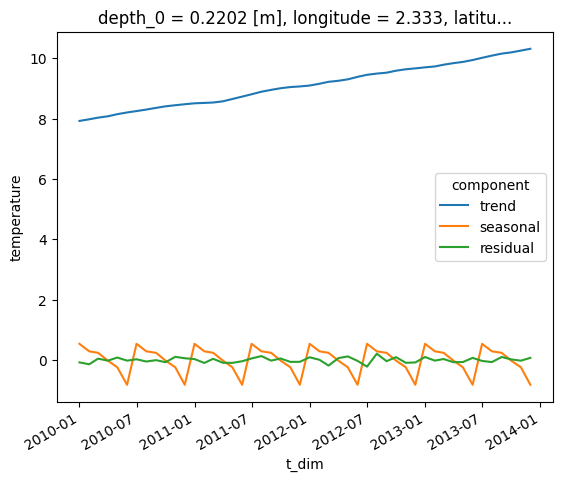
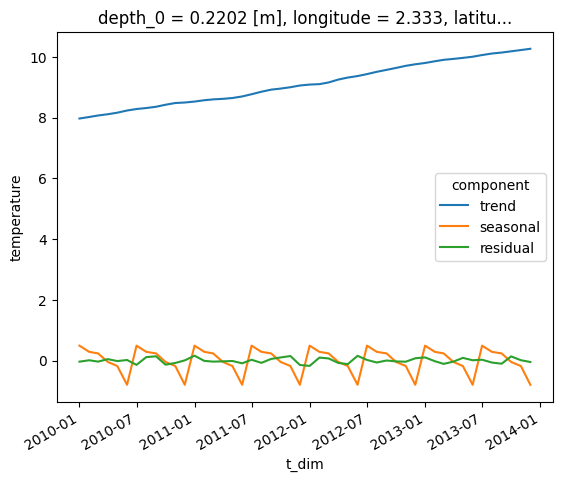
Updated General notebook pages from coast repo.

diff --git a/content/en/docs/Examples/Notebooks/General/seasonal_decomp_example.md b/content/en/docs/Examples/Notebooks/General/seasonal_decomp_example.md
@@ -86,7 +86,7 @@ temperature[0,0,:,:].plot()
 
 
 
-    <matplotlib.collections.QuadMesh at 0x7f45d0579970>
+    <matplotlib.collections.QuadMesh at 0x7f0c31d52940>
 
 
 
@@ -107,7 +107,7 @@ temperature[:,0,200,200].plot()
 
 
 
-    [<matplotlib.lines.Line2D at 0x7f45d03c0190>]
+    [<matplotlib.lines.Line2D at 0x7f0c30b92d30>]
 
 
 
@@ -514,7 +514,7 @@ Dimensions without coordinates: z_dim, y_dim, x_dim
 Data variables:
     trend      (t_dim, z_dim, y_dim, x_dim) float64 nan nan nan ... nan nan nan
     seasonal   (t_dim, z_dim, y_dim, x_dim) float64 nan nan nan ... nan nan nan
-    residual   (t_dim, z_dim, y_dim, x_dim) float64 nan nan nan ... nan nan nan</pre><div class='xr-wrap' style='display:none'><div class='xr-header'><div class='xr-obj-type'>xarray.Dataset</div></div><ul class='xr-sections'><li class='xr-section-item'><input id='section-f4075c30-2d5e-49f0-bcf2-2d2210e1a57b' class='xr-section-summary-in' type='checkbox' disabled ><label for='section-f4075c30-2d5e-49f0-bcf2-2d2210e1a57b' class='xr-section-summary'  title='Expand/collapse section'>Dimensions:</label><div class='xr-section-inline-details'><ul class='xr-dim-list'><li><span class='xr-has-index'>t_dim</span>: 48</li><li><span>z_dim</span>: 2</li><li><span>y_dim</span>: 375</li><li><span>x_dim</span>: 297</li></ul></div><div class='xr-section-details'></div></li><li class='xr-section-item'><input id='section-ee1c3df1-2cbd-40cf-a27c-421ae7bd3373' class='xr-section-summary-in' type='checkbox'  checked><label for='section-ee1c3df1-2cbd-40cf-a27c-421ae7bd3373' class='xr-section-summary' >Coordinates: <span>(4)</span></label><div class='xr-section-inline-details'></div><div class='xr-section-details'><ul class='xr-var-list'><li class='xr-var-item'><div class='xr-var-name'><span class='xr-has-index'>t_dim</span></div><div class='xr-var-dims'>(t_dim)</div><div class='xr-var-dtype'>datetime64[ns]</div><div class='xr-var-preview xr-preview'>2010-01-01 ... 2013-12-01</div><input id='attrs-1c0b5ee9-49e3-4047-8262-bf2af56a7f50' class='xr-var-attrs-in' type='checkbox' disabled><label for='attrs-1c0b5ee9-49e3-4047-8262-bf2af56a7f50' title='Show/Hide attributes'><svg class='icon xr-icon-file-text2'><use xlink:href='#icon-file-text2'></use></svg></label><input id='data-93116243-b0d6-4ac6-9b99-9b8d719a97ed' class='xr-var-data-in' type='checkbox'><label for='data-93116243-b0d6-4ac6-9b99-9b8d719a97ed' title='Show/Hide data repr'><svg class='icon xr-icon-database'><use xlink:href='#icon-database'></use></svg></label><div class='xr-var-attrs'><dl class='xr-attrs'></dl></div><div class='xr-var-data'><pre>array([&#x27;2010-01-01T00:00:00.000000000&#x27;, &#x27;2010-02-01T00:00:00.000000000&#x27;,
+    residual   (t_dim, z_dim, y_dim, x_dim) float64 nan nan nan ... nan nan nan</pre><div class='xr-wrap' style='display:none'><div class='xr-header'><div class='xr-obj-type'>xarray.Dataset</div></div><ul class='xr-sections'><li class='xr-section-item'><input id='section-f5c62940-463a-462a-8525-cb26a20d06eb' class='xr-section-summary-in' type='checkbox' disabled ><label for='section-f5c62940-463a-462a-8525-cb26a20d06eb' class='xr-section-summary'  title='Expand/collapse section'>Dimensions:</label><div class='xr-section-inline-details'><ul class='xr-dim-list'><li><span class='xr-has-index'>t_dim</span>: 48</li><li><span>z_dim</span>: 2</li><li><span>y_dim</span>: 375</li><li><span>x_dim</span>: 297</li></ul></div><div class='xr-section-details'></div></li><li class='xr-section-item'><input id='section-a5709a2a-1eed-4e3f-9bc7-9df5d907ebf7' class='xr-section-summary-in' type='checkbox'  checked><label for='section-a5709a2a-1eed-4e3f-9bc7-9df5d907ebf7' class='xr-section-summary' >Coordinates: <span>(4)</span></label><div class='xr-section-inline-details'></div><div class='xr-section-details'><ul class='xr-var-list'><li class='xr-var-item'><div class='xr-var-name'><span class='xr-has-index'>t_dim</span></div><div class='xr-var-dims'>(t_dim)</div><div class='xr-var-dtype'>datetime64[ns]</div><div class='xr-var-preview xr-preview'>2010-01-01 ... 2013-12-01</div><input id='attrs-d28d905f-6bf1-409e-b5db-44daf1c7b5a0' class='xr-var-attrs-in' type='checkbox' disabled><label for='attrs-d28d905f-6bf1-409e-b5db-44daf1c7b5a0' title='Show/Hide attributes'><svg class='icon xr-icon-file-text2'><use xlink:href='#icon-file-text2'></use></svg></label><input id='data-3940478f-03c5-487c-9b78-7de61cfd1bf8' class='xr-var-data-in' type='checkbox'><label for='data-3940478f-03c5-487c-9b78-7de61cfd1bf8' title='Show/Hide data repr'><svg class='icon xr-icon-database'><use xlink:href='#icon-database'></use></svg></label><div class='xr-var-attrs'><dl class='xr-attrs'></dl></div><div class='xr-var-data'><pre>array([&#x27;2010-01-01T00:00:00.000000000&#x27;, &#x27;2010-02-01T00:00:00.000000000&#x27;,
        &#x27;2010-03-01T00:00:00.000000000&#x27;, &#x27;2010-04-01T00:00:00.000000000&#x27;,
        &#x27;2010-05-01T00:00:00.000000000&#x27;, &#x27;2010-06-01T00:00:00.000000000&#x27;,
        &#x27;2010-07-01T00:00:00.000000000&#x27;, &#x27;2010-08-01T00:00:00.000000000&#x27;,
@@ -538,7 +538,7 @@ Data variables:
        &#x27;2013-07-01T00:00:00.000000000&#x27;, &#x27;2013-08-01T00:00:00.000000000&#x27;,
        &#x27;2013-09-01T00:00:00.000000000&#x27;, &#x27;2013-10-01T00:00:00.000000000&#x27;,
        &#x27;2013-11-01T00:00:00.000000000&#x27;, &#x27;2013-12-01T00:00:00.000000000&#x27;],
-      dtype=&#x27;datetime64[ns]&#x27;)</pre></div></li><li class='xr-var-item'><div class='xr-var-name'><span>depth_0</span></div><div class='xr-var-dims'>(z_dim, y_dim, x_dim)</div><div class='xr-var-dtype'>float32</div><div class='xr-var-preview xr-preview'>0.5 0.5 0.5 0.5 ... 1.5 1.5 1.5 1.5</div><input id='attrs-78babb90-9dbf-4d32-847d-3711c192db73' class='xr-var-attrs-in' type='checkbox' ><label for='attrs-78babb90-9dbf-4d32-847d-3711c192db73' title='Show/Hide attributes'><svg class='icon xr-icon-file-text2'><use xlink:href='#icon-file-text2'></use></svg></label><input id='data-1e911b8a-150a-4f6b-b3f9-1db9b211cf70' class='xr-var-data-in' type='checkbox'><label for='data-1e911b8a-150a-4f6b-b3f9-1db9b211cf70' title='Show/Hide data repr'><svg class='icon xr-icon-database'><use xlink:href='#icon-database'></use></svg></label><div class='xr-var-attrs'><dl class='xr-attrs'><dt><span>units :</span></dt><dd>m</dd><dt><span>standard_name :</span></dt><dd>Depth at time zero on the t-grid</dd></dl></div><div class='xr-var-data'><pre>array([[[0.5       , 0.5       , 0.5       , ..., 0.5       ,
+      dtype=&#x27;datetime64[ns]&#x27;)</pre></div></li><li class='xr-var-item'><div class='xr-var-name'><span>depth_0</span></div><div class='xr-var-dims'>(z_dim, y_dim, x_dim)</div><div class='xr-var-dtype'>float32</div><div class='xr-var-preview xr-preview'>0.5 0.5 0.5 0.5 ... 1.5 1.5 1.5 1.5</div><input id='attrs-53962787-6b13-4f56-ab88-d70066e1c684' class='xr-var-attrs-in' type='checkbox' ><label for='attrs-53962787-6b13-4f56-ab88-d70066e1c684' title='Show/Hide attributes'><svg class='icon xr-icon-file-text2'><use xlink:href='#icon-file-text2'></use></svg></label><input id='data-51dc4e98-56b1-4fcd-9c30-54e132b06648' class='xr-var-data-in' type='checkbox'><label for='data-51dc4e98-56b1-4fcd-9c30-54e132b06648' title='Show/Hide data repr'><svg class='icon xr-icon-database'><use xlink:href='#icon-database'></use></svg></label><div class='xr-var-attrs'><dl class='xr-attrs'><dt><span>units :</span></dt><dd>m</dd><dt><span>standard_name :</span></dt><dd>Depth at time zero on the t-grid</dd></dl></div><div class='xr-var-data'><pre>array([[[0.5       , 0.5       , 0.5       , ..., 0.5       ,
          0.5       , 0.5       ],
         [0.5       , 0.4975586 , 0.4975586 , ..., 0.10009766,
          0.10009766, 0.5       ],
@@ -564,7 +564,7 @@ Data variables:
         [1.5       , 0.30029297, 0.30029297, ..., 0.30029297,
          0.30029297, 1.5       ],
         [1.5       , 1.5       , 1.5       , ..., 1.5       ,
-         1.5       , 1.5       ]]], dtype=float32)</pre></div></li><li class='xr-var-item'><div class='xr-var-name'><span>longitude</span></div><div class='xr-var-dims'>(y_dim, x_dim)</div><div class='xr-var-dtype'>float32</div><div class='xr-var-preview xr-preview'>-19.89 -19.78 -19.67 ... 12.89 13.0</div><input id='attrs-5f2d53e7-8485-49bc-b5c7-5165f50b6e16' class='xr-var-attrs-in' type='checkbox' disabled><label for='attrs-5f2d53e7-8485-49bc-b5c7-5165f50b6e16' title='Show/Hide attributes'><svg class='icon xr-icon-file-text2'><use xlink:href='#icon-file-text2'></use></svg></label><input id='data-c061342d-e792-4ad2-85c9-932c81b99927' class='xr-var-data-in' type='checkbox'><label for='data-c061342d-e792-4ad2-85c9-932c81b99927' title='Show/Hide data repr'><svg class='icon xr-icon-database'><use xlink:href='#icon-database'></use></svg></label><div class='xr-var-attrs'><dl class='xr-attrs'></dl></div><div class='xr-var-data'><pre>array([[-19.888672, -19.777344, -19.666992, ...,  12.777344,  12.888672,
+         1.5       , 1.5       ]]], dtype=float32)</pre></div></li><li class='xr-var-item'><div class='xr-var-name'><span>longitude</span></div><div class='xr-var-dims'>(y_dim, x_dim)</div><div class='xr-var-dtype'>float32</div><div class='xr-var-preview xr-preview'>-19.89 -19.78 -19.67 ... 12.89 13.0</div><input id='attrs-6ed7a013-5b41-423d-afca-2a42dc467e6f' class='xr-var-attrs-in' type='checkbox' disabled><label for='attrs-6ed7a013-5b41-423d-afca-2a42dc467e6f' title='Show/Hide attributes'><svg class='icon xr-icon-file-text2'><use xlink:href='#icon-file-text2'></use></svg></label><input id='data-fd348d41-e75b-47af-8b1d-5dc23bfb3fff' class='xr-var-data-in' type='checkbox'><label for='data-fd348d41-e75b-47af-8b1d-5dc23bfb3fff' title='Show/Hide data repr'><svg class='icon xr-icon-database'><use xlink:href='#icon-database'></use></svg></label><div class='xr-var-attrs'><dl class='xr-attrs'></dl></div><div class='xr-var-data'><pre>array([[-19.888672, -19.777344, -19.666992, ...,  12.777344,  12.888672,
          13.      ],
        [-19.888672, -19.777344, -19.666992, ...,  12.777344,  12.888672,
          13.      ],
@@ -576,7 +576,7 @@ Data variables:
        [-19.888672, -19.777344, -19.666992, ...,  12.777344,  12.888672,
          13.      ],
        [-19.888672, -19.777344, -19.666992, ...,  12.777344,  12.888672,
-         13.      ]], dtype=float32)</pre></div></li><li class='xr-var-item'><div class='xr-var-name'><span>latitude</span></div><div class='xr-var-dims'>(y_dim, x_dim)</div><div class='xr-var-dtype'>float32</div><div class='xr-var-preview xr-preview'>40.07 40.07 40.07 ... 65.0 65.0</div><input id='attrs-705d1dcc-22e6-48fd-af65-a29773a28bf8' class='xr-var-attrs-in' type='checkbox' disabled><label for='attrs-705d1dcc-22e6-48fd-af65-a29773a28bf8' title='Show/Hide attributes'><svg class='icon xr-icon-file-text2'><use xlink:href='#icon-file-text2'></use></svg></label><input id='data-83d9df36-3000-4a98-8330-3c2561108039' class='xr-var-data-in' type='checkbox'><label for='data-83d9df36-3000-4a98-8330-3c2561108039' title='Show/Hide data repr'><svg class='icon xr-icon-database'><use xlink:href='#icon-database'></use></svg></label><div class='xr-var-attrs'><dl class='xr-attrs'></dl></div><div class='xr-var-data'><pre>array([[40.066406, 40.066406, 40.066406, ..., 40.066406, 40.066406,
+         13.      ]], dtype=float32)</pre></div></li><li class='xr-var-item'><div class='xr-var-name'><span>latitude</span></div><div class='xr-var-dims'>(y_dim, x_dim)</div><div class='xr-var-dtype'>float32</div><div class='xr-var-preview xr-preview'>40.07 40.07 40.07 ... 65.0 65.0</div><input id='attrs-f6f9818b-9e59-43bf-9ab0-89b0ebf3c82f' class='xr-var-attrs-in' type='checkbox' disabled><label for='attrs-f6f9818b-9e59-43bf-9ab0-89b0ebf3c82f' title='Show/Hide attributes'><svg class='icon xr-icon-file-text2'><use xlink:href='#icon-file-text2'></use></svg></label><input id='data-14749246-e392-4b45-bbe6-4034e0dd5230' class='xr-var-data-in' type='checkbox'><label for='data-14749246-e392-4b45-bbe6-4034e0dd5230' title='Show/Hide data repr'><svg class='icon xr-icon-database'><use xlink:href='#icon-database'></use></svg></label><div class='xr-var-attrs'><dl class='xr-attrs'></dl></div><div class='xr-var-data'><pre>array([[40.066406, 40.066406, 40.066406, ..., 40.066406, 40.066406,
         40.066406],
        [40.13379 , 40.13379 , 40.13379 , ..., 40.13379 , 40.13379 ,
         40.13379 ],
@@ -588,11 +588,11 @@ Data variables:
        [64.93457 , 64.93457 , 64.93457 , ..., 64.93457 , 64.93457 ,
         64.93457 ],
        [65.00098 , 65.00098 , 65.00098 , ..., 65.00098 , 65.00098 ,
-        65.00098 ]], dtype=float32)</pre></div></li></ul></div></li><li class='xr-section-item'><input id='section-ab112cb2-8f93-4c93-84a6-197b5f9fec24' class='xr-section-summary-in' type='checkbox'  checked><label for='section-ab112cb2-8f93-4c93-84a6-197b5f9fec24' class='xr-section-summary' >Data variables: <span>(3)</span></label><div class='xr-section-inline-details'></div><div class='xr-section-details'><ul class='xr-var-list'><li class='xr-var-item'><div class='xr-var-name'><span>trend</span></div><div class='xr-var-dims'>(t_dim, z_dim, y_dim, x_dim)</div><div class='xr-var-dtype'>float64</div><div class='xr-var-preview xr-preview'>nan nan nan nan ... nan nan nan nan</div><input id='attrs-7a768d50-b660-4a20-b75e-40d86100b44c' class='xr-var-attrs-in' type='checkbox' disabled><label for='attrs-7a768d50-b660-4a20-b75e-40d86100b44c' title='Show/Hide attributes'><svg class='icon xr-icon-file-text2'><use xlink:href='#icon-file-text2'></use></svg></label><input id='data-588377f4-3e45-4f94-b7ee-64731cb1cf04' class='xr-var-data-in' type='checkbox'><label for='data-588377f4-3e45-4f94-b7ee-64731cb1cf04' title='Show/Hide data repr'><svg class='icon xr-icon-database'><use xlink:href='#icon-database'></use></svg></label><div class='xr-var-attrs'><dl class='xr-attrs'></dl></div><div class='xr-var-data'><pre>array([[[[        nan,         nan,         nan, ...,         nan,
+        65.00098 ]], dtype=float32)</pre></div></li></ul></div></li><li class='xr-section-item'><input id='section-ca6d61ca-600e-4c97-834f-ada7a070a44f' class='xr-section-summary-in' type='checkbox'  checked><label for='section-ca6d61ca-600e-4c97-834f-ada7a070a44f' class='xr-section-summary' >Data variables: <span>(3)</span></label><div class='xr-section-inline-details'></div><div class='xr-section-details'><ul class='xr-var-list'><li class='xr-var-item'><div class='xr-var-name'><span>trend</span></div><div class='xr-var-dims'>(t_dim, z_dim, y_dim, x_dim)</div><div class='xr-var-dtype'>float64</div><div class='xr-var-preview xr-preview'>nan nan nan nan ... nan nan nan nan</div><input id='attrs-68ab743c-601e-4dcb-90c9-3d2420dd8dab' class='xr-var-attrs-in' type='checkbox' disabled><label for='attrs-68ab743c-601e-4dcb-90c9-3d2420dd8dab' title='Show/Hide attributes'><svg class='icon xr-icon-file-text2'><use xlink:href='#icon-file-text2'></use></svg></label><input id='data-74af7141-af3e-434e-a003-1cc4af06feef' class='xr-var-data-in' type='checkbox'><label for='data-74af7141-af3e-434e-a003-1cc4af06feef' title='Show/Hide data repr'><svg class='icon xr-icon-database'><use xlink:href='#icon-database'></use></svg></label><div class='xr-var-attrs'><dl class='xr-attrs'></dl></div><div class='xr-var-data'><pre>array([[[[        nan,         nan,         nan, ...,         nan,
                   nan,         nan],
-         [        nan, 15.34046819, 15.33721299, ...,         nan,
+         [        nan, 15.38266794, 15.37941273, ...,         nan,
                   nan,         nan],
-         [        nan, 15.32940049, 15.49720648, ...,         nan,
+         [        nan, 15.37160023, 15.53940622, ...,         nan,
                   nan,         nan],
          ...,
          [        nan,         nan,         nan, ...,         nan,
@@ -604,9 +604,9 @@ Data variables:
 
         [[        nan,         nan,         nan, ...,         nan,
                   nan,         nan],
-         [        nan, 15.33949163, 15.33639918, ...,         nan,
+         [        nan, 15.38169137, 15.37859893, ...,         nan,
                   nan,         nan],
-         [        nan, 15.32826116, 15.50111273, ...,         nan,
+         [        nan, 15.3704609 , 15.54331247, ...,         nan,
                   nan,         nan],
 ...
          [        nan,         nan,         nan, ...,         nan,
@@ -618,9 +618,9 @@ Data variables:
 
         [[        nan,         nan,         nan, ...,         nan,
                   nan,         nan],
-         [        nan, 17.73102401, 17.72793156, ...,         nan,
+         [        nan, 17.67714701, 17.67405456, ...,         nan,
                   nan,         nan],
-         [        nan, 17.71979354, 17.8926451 , ...,         nan,
+         [        nan, 17.66591654, 17.8387681 , ...,         nan,
                   nan,         nan],
          ...,
          [        nan,         nan,         nan, ...,         nan,
@@ -628,11 +628,11 @@ Data variables:
          [        nan,         nan,         nan, ...,         nan,
                   nan,         nan],
          [        nan,         nan,         nan, ...,         nan,
-                  nan,         nan]]]])</pre></div></li><li class='xr-var-item'><div class='xr-var-name'><span>seasonal</span></div><div class='xr-var-dims'>(t_dim, z_dim, y_dim, x_dim)</div><div class='xr-var-dtype'>float64</div><div class='xr-var-preview xr-preview'>nan nan nan nan ... nan nan nan nan</div><input id='attrs-bcabed5f-4b5a-4e48-a283-35b43c65c16e' class='xr-var-attrs-in' type='checkbox' disabled><label for='attrs-bcabed5f-4b5a-4e48-a283-35b43c65c16e' title='Show/Hide attributes'><svg class='icon xr-icon-file-text2'><use xlink:href='#icon-file-text2'></use></svg></label><input id='data-69fb6002-9a23-446d-b82e-f4343c51d5bd' class='xr-var-data-in' type='checkbox'><label for='data-69fb6002-9a23-446d-b82e-f4343c51d5bd' title='Show/Hide data repr'><svg class='icon xr-icon-database'><use xlink:href='#icon-database'></use></svg></label><div class='xr-var-attrs'><dl class='xr-attrs'></dl></div><div class='xr-var-data'><pre>array([[[[        nan,         nan,         nan, ...,         nan,
+                  nan,         nan]]]])</pre></div></li><li class='xr-var-item'><div class='xr-var-name'><span>seasonal</span></div><div class='xr-var-dims'>(t_dim, z_dim, y_dim, x_dim)</div><div class='xr-var-dtype'>float64</div><div class='xr-var-preview xr-preview'>nan nan nan nan ... nan nan nan nan</div><input id='attrs-3b659a93-19b4-4612-b7cf-8e8af4296f6e' class='xr-var-attrs-in' type='checkbox' disabled><label for='attrs-3b659a93-19b4-4612-b7cf-8e8af4296f6e' title='Show/Hide attributes'><svg class='icon xr-icon-file-text2'><use xlink:href='#icon-file-text2'></use></svg></label><input id='data-5cb8e665-ef00-4298-9470-d36e53a1b58d' class='xr-var-data-in' type='checkbox'><label for='data-5cb8e665-ef00-4298-9470-d36e53a1b58d' title='Show/Hide data repr'><svg class='icon xr-icon-database'><use xlink:href='#icon-database'></use></svg></label><div class='xr-var-attrs'><dl class='xr-attrs'></dl></div><div class='xr-var-data'><pre>array([[[[        nan,         nan,         nan, ...,         nan,
                   nan,         nan],
-         [        nan,  0.07180505, -0.01185381, ...,         nan,
+         [        nan,  0.02427029, -0.05938857, ...,         nan,
                   nan,         nan],
-         [        nan,  0.09752119,  0.32717614, ...,         nan,
+         [        nan,  0.04998643,  0.27964138, ...,         nan,
                   nan,         nan],
          ...,
          [        nan,         nan,         nan, ...,         nan,
@@ -644,9 +644,9 @@ Data variables:
 
         [[        nan,         nan,         nan, ...,         nan,
                   nan,         nan],
-         [        nan,  0.06106286, -0.02275876, ...,         nan,
+         [        nan,  0.0135281 , -0.07029352, ...,         nan,
                   nan,         nan],
-         [        nan,  0.08694177,  0.32326989, ...,         nan,
+         [        nan,  0.039407  ,  0.27573513, ...,         nan,
                   nan,         nan],
 ...
          [        nan,         nan,         nan, ...,         nan,
@@ -658,9 +658,9 @@ Data variables:
 
         [[        nan,         nan,         nan, ...,         nan,
                   nan,         nan],
-         [        nan, -0.32813773, -0.31137341, ...,         nan,
+         [        nan, -0.30582763, -0.28906331, ...,         nan,
                   nan,         nan],
-         [        nan, -0.33839163, -0.68702445, ...,         nan,
+         [        nan, -0.31608154, -0.66471435, ...,         nan,
                   nan,         nan],
          ...,
          [        nan,         nan,         nan, ...,         nan,
@@ -668,11 +668,11 @@ Data variables:
          [        nan,         nan,         nan, ...,         nan,
                   nan,         nan],
          [        nan,         nan,         nan, ...,         nan,
-                  nan,         nan]]]])</pre></div></li><li class='xr-var-item'><div class='xr-var-name'><span>residual</span></div><div class='xr-var-dims'>(t_dim, z_dim, y_dim, x_dim)</div><div class='xr-var-dtype'>float64</div><div class='xr-var-preview xr-preview'>nan nan nan nan ... nan nan nan nan</div><input id='attrs-607f35a6-8272-4101-b04a-653565cdfb54' class='xr-var-attrs-in' type='checkbox' disabled><label for='attrs-607f35a6-8272-4101-b04a-653565cdfb54' title='Show/Hide attributes'><svg class='icon xr-icon-file-text2'><use xlink:href='#icon-file-text2'></use></svg></label><input id='data-367af792-7533-4ae1-8e17-1a78574d95e3' class='xr-var-data-in' type='checkbox'><label for='data-367af792-7533-4ae1-8e17-1a78574d95e3' title='Show/Hide data repr'><svg class='icon xr-icon-database'><use xlink:href='#icon-database'></use></svg></label><div class='xr-var-attrs'><dl class='xr-attrs'></dl></div><div class='xr-var-data'><pre>array([[[[        nan,         nan,         nan, ...,         nan,
+                  nan,         nan]]]])</pre></div></li><li class='xr-var-item'><div class='xr-var-name'><span>residual</span></div><div class='xr-var-dims'>(t_dim, z_dim, y_dim, x_dim)</div><div class='xr-var-dtype'>float64</div><div class='xr-var-preview xr-preview'>nan nan nan nan ... nan nan nan nan</div><input id='attrs-958abac9-714c-41e9-9d5a-3a2755d8fc41' class='xr-var-attrs-in' type='checkbox' disabled><label for='attrs-958abac9-714c-41e9-9d5a-3a2755d8fc41' title='Show/Hide attributes'><svg class='icon xr-icon-file-text2'><use xlink:href='#icon-file-text2'></use></svg></label><input id='data-2442b680-0beb-44e3-8727-6d0fe17ad03f' class='xr-var-data-in' type='checkbox'><label for='data-2442b680-0beb-44e3-8727-6d0fe17ad03f' title='Show/Hide data repr'><svg class='icon xr-icon-database'><use xlink:href='#icon-database'></use></svg></label><div class='xr-var-attrs'><dl class='xr-attrs'></dl></div><div class='xr-var-data'><pre>array([[[[        nan,         nan,         nan, ...,         nan,
                   nan,         nan],
-         [        nan, -0.07604337, -0.07604337, ...,         nan,
+         [        nan, -0.0346161 , -0.0346161 , ...,         nan,
                   nan,         nan],
-         [        nan, -0.07604337, -0.07604337, ...,         nan,
+         [        nan, -0.0346161 , -0.0346161 , ...,         nan,
                   nan,         nan],
          ...,
          [        nan,         nan,         nan, ...,         nan,
@@ -684,9 +684,9 @@ Data variables:
 
         [[        nan,         nan,         nan, ...,         nan,
                   nan,         nan],
-         [        nan, -0.07604337, -0.07604337, ...,         nan,
+         [        nan, -0.0346161 , -0.0346161 , ...,         nan,
                   nan,         nan],
-         [        nan, -0.07604337, -0.07604337, ...,         nan,
+         [        nan, -0.0346161 , -0.0346161 , ...,         nan,
                   nan,         nan],
 ...
          [        nan,         nan,         nan, ...,         nan,
@@ -698,9 +698,9 @@ Data variables:
 
         [[        nan,         nan,         nan, ...,         nan,
                   nan,         nan],
-         [        nan,  0.07404407,  0.07404407, ...,         nan,
+         [        nan, -0.04568025, -0.04568025, ...,         nan,
                   nan,         nan],
-         [        nan,  0.07404407,  0.07404407, ...,         nan,
+         [        nan, -0.04568025, -0.04568025, ...,         nan,
                   nan,         nan],
          ...,
          [        nan,         nan,         nan, ...,         nan,
@@ -708,7 +708,7 @@ Data variables:
          [        nan,         nan,         nan, ...,         nan,
                   nan,         nan],
          [        nan,         nan,         nan, ...,         nan,
-                  nan,         nan]]]])</pre></div></li></ul></div></li><li class='xr-section-item'><input id='section-90504453-cfe3-46c2-ad3a-3b8151624181' class='xr-section-summary-in' type='checkbox' disabled ><label for='section-90504453-cfe3-46c2-ad3a-3b8151624181' class='xr-section-summary'  title='Expand/collapse section'>Attributes: <span>(0)</span></label><div class='xr-section-inline-details'></div><div class='xr-section-details'><dl class='xr-attrs'></dl></div></li></ul></div></div>
+                  nan,         nan]]]])</pre></div></li></ul></div></li><li class='xr-section-item'><input id='section-5ff49e24-a83e-4569-a259-96013c1db491' class='xr-section-summary-in' type='checkbox' disabled ><label for='section-5ff49e24-a83e-4569-a259-96013c1db491' class='xr-section-summary'  title='Expand/collapse section'>Attributes: <span>(0)</span></label><div class='xr-section-inline-details'></div><div class='xr-section-details'><dl class='xr-attrs'></dl></div></li></ul></div></div>
 
 
 
@@ -727,9 +727,9 @@ temp_decomp[:,:,0,200,200].plot(hue="component")
 
 
 
-    [<matplotlib.lines.Line2D at 0x7f45d026fb20>,
-     <matplotlib.lines.Line2D at 0x7f45d026ffa0>,
-     <matplotlib.lines.Line2D at 0x7f45d026ffd0>]
+    [<matplotlib.lines.Line2D at 0x7f0c30a47fa0>,
+     <matplotlib.lines.Line2D at 0x7f0c30a47ac0>,
+     <matplotlib.lines.Line2D at 0x7f0c30a47df0>]
 
 
 

diff --git a/content/en/docs/Examples/Notebooks/General/eof_tutorial.md b/content/en/docs/Examples/Notebooks/General/eof_tutorial.md
@@ -70,7 +70,7 @@ eof_data.EOF.sel(mode=[1,2,3,4]).plot.pcolormesh(col='mode',col_wrap=2,x='longit
 
 
 
-    <xarray.plot.facetgrid.FacetGrid at 0x7f80884d4460>
+    <xarray.plot.facetgrid.FacetGrid at 0x7f89c2c226d0>
 
 
 
@@ -88,7 +88,7 @@ eof_data.temporal_proj.sel(mode=[1,2,3,4]).plot(col='mode',col_wrap=2,x='time')
 
 
 
-    <xarray.plot.facetgrid.FacetGrid at 0x7f807fd00c40>
+    <xarray.plot.facetgrid.FacetGrid at 0x7f89c072c730>
 
 
 
